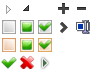
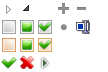
--MULTISITE-803 Cleanup html code and css

Changed region(s): [[0.5278, 0.0278, 0.6389, 0.1944], [0.5556, 0.3056, 0.6389, 0.4722], [0.6944, 0.0833, 0.8056, 0.1389]]

diff --git a/sites/all/libraries/jstree/themes/ec-default/style.css b/sites/all/libraries/jstree/themes/ec-default/style.css
@@ -4,17 +4,22 @@
  * Supported plugins: ui (hovered, clicked), checkbox, contextmenu, search
  */
 
+.jstree-ec-default a { display: block; overflow: hidden; -ms-text-overflow: ellipsis; text-overflow: ellipsis; }
+.jstree-ec-default a:hover { background-color: #007fcf; color: #fff; border-radius: 5px;}
+.jstree-ec-default a.active,
+.jstree-ec-default a.active:hover {background-color: #00609C; color: #fff; border-radius: 5px;}
 .jstree-ec-default li, 
 .jstree-ec-default ins { background-image:url("d.png"); background-repeat:no-repeat; background-color:transparent; }
-.jstree-ec-default li { display: block; background-position:-90px 0; background-repeat:repeat-y; }
+.jstree-ec-default ins { width: 16px; height: 16px; }
+.jstree-ec-default li { display: block; background-position:-90px 0; background-repeat:repeat-y;}
 .jstree-ec-default li.jstree-last { background:transparent; }
-.jstree-ec-default .jstree-open > ins { background-position:-72px 0; cursor: pointer; }
-.jstree-ec-default .jstree-closed > ins { background-position:-54px 0; cursor: pointer; }
-.jstree-ec-default .jstree-leaf > ins { background-position:-36px 0; }
+.jstree-ec-default .jstree-open > ins { background-position:-74px 0; cursor: pointer; float: left;}
+.jstree-ec-default .jstree-closed > ins { background-position:-56px 0; cursor: pointer; float: left;}
+.jstree-ec-default .jstree-leaf > ins { background-position:-38px 0; }
 
 #tb_browser .jstree-ec-default .jstree-hovered { background:#e7f4f9; padding:3px 5px 3px 1px; }
 #tb_browser .jstree-ec-default .jstree-clicked { background:#00609C; padding:3px 5px 3px 1px; color: #fff; font-weight: normal; text-shadow:0 0 1px rgba(0, 0, 0, 0.5); -webkit-border-radius: 5px; -moz-border-radius: 5px; border-radius: @radius;border-radius:5px; }
-#tb_browser .jstree-ec-default a .jstree-icon { background-position:-56px -19px; }
+#tb_browser .jstree-ec-default a .jstree-icon { background-position:-56px -19px; display: none;}
 #tb_browser .jstree-ec-default a.jstree-loading .jstree-icon { background:url("throbber.gif") center center no-repeat !important; }
 
 .jstree-ec-default .jstree-no-dots li, 
@@ -62,7 +67,7 @@
 #jstree-marker.jstree-ec-default { _background-image:url("d.gif"); }
 .jstree-ec-default .jstree-open ins { _background-position:-72px 0; }
 .jstree-ec-default .jstree-closed ins { _background-position:-54px 0; }
-.jstree-ec-default .jstree-leaf ins { _background-position:-36px 0; }
+.jstree-ec-default .jstree-leaf ins { _background-position:-36px 0; float: left;}
 .jstree-ec-default a ins.jstree-icon { _background-position:-56px -19px; }
 #vakata-contextmenu.jstree-ec-default-context ins { _display:none; }
 #vakata-contextmenu.jstree-ec-default-context li { _zoom:1; }
